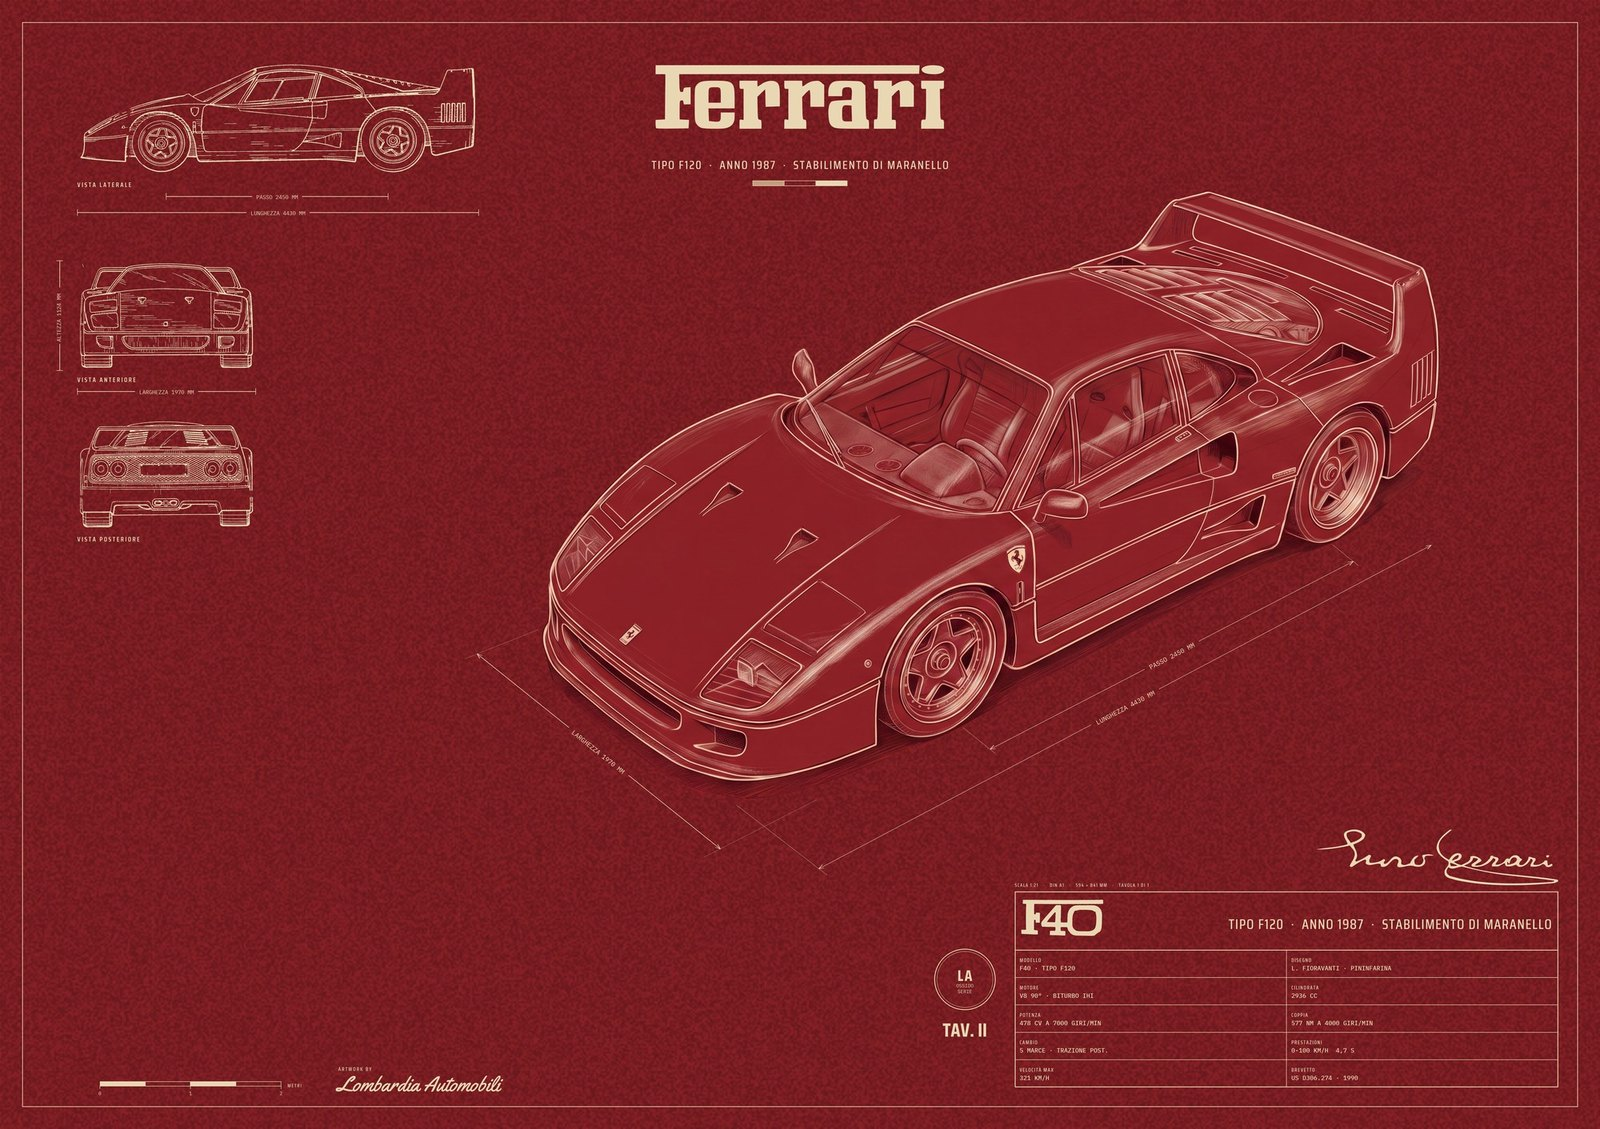
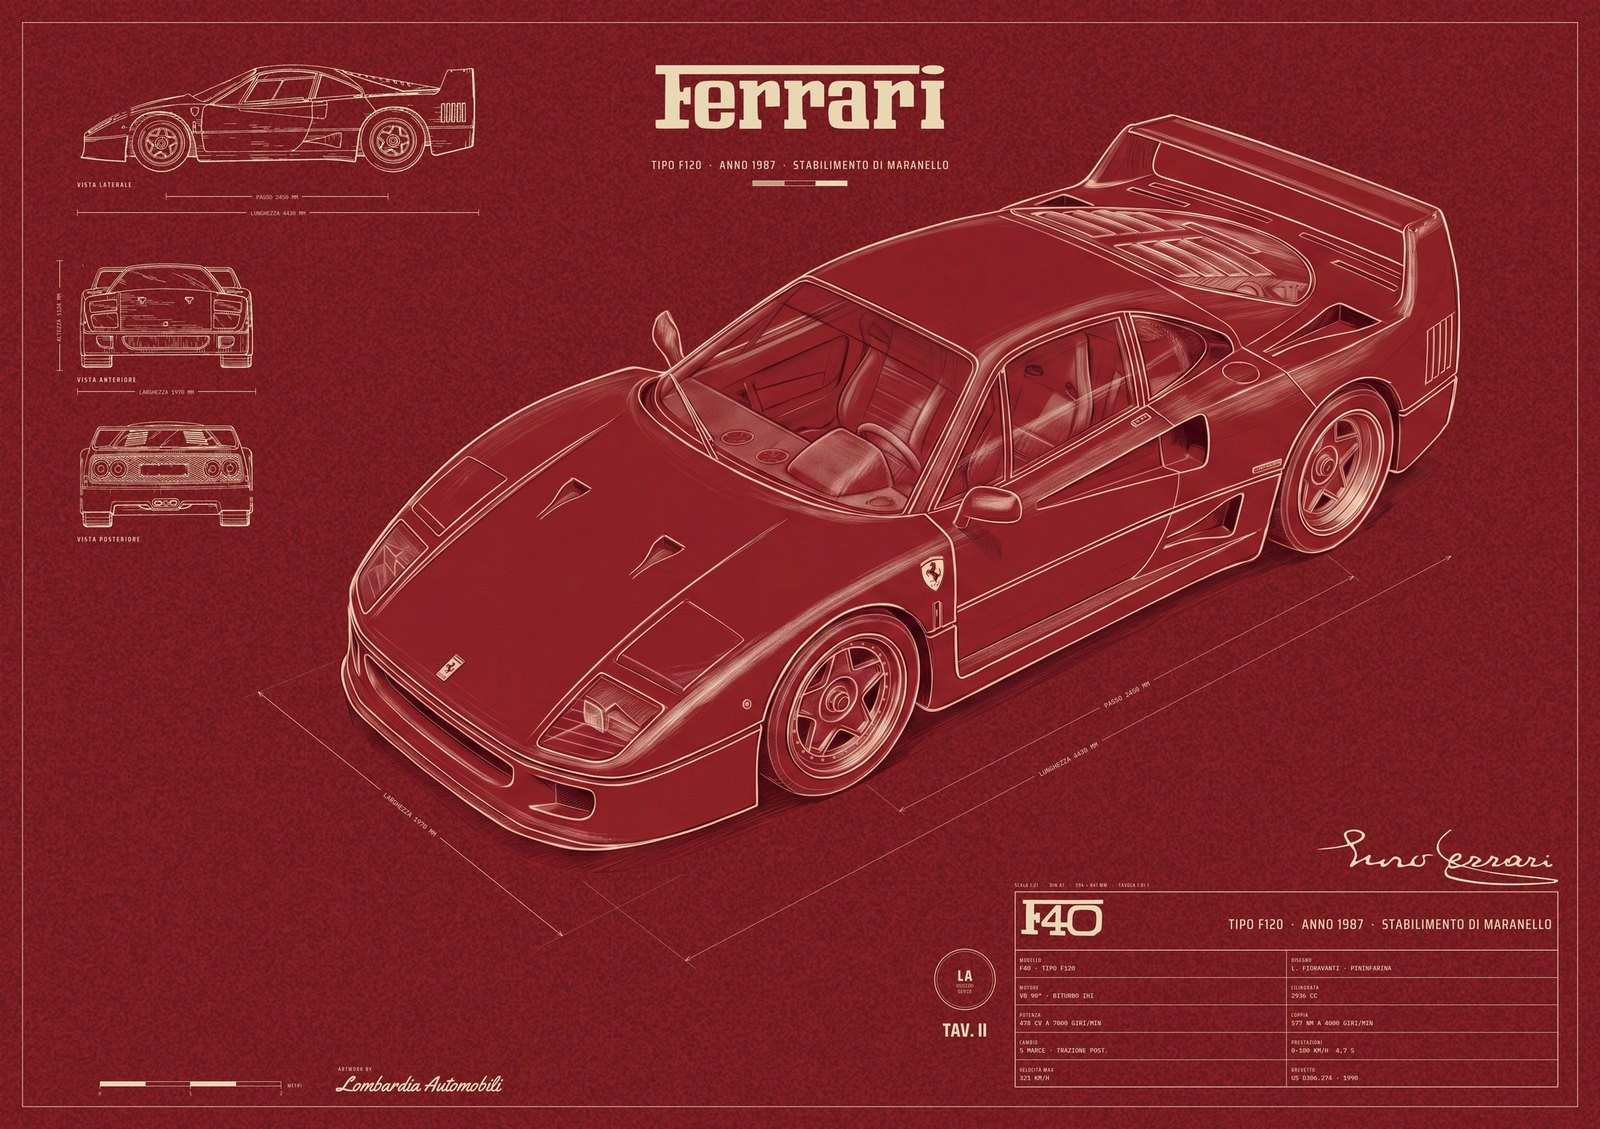
Publish the lot board

diff --git a/house/index.html b/house/index.html
@@ -20,7 +20,7 @@ a{color:#ffd28a}
 
 <h2 id="poster">The poster</h2>
 <p>Tap a sheet for the full 9933 x 7016 file. Only the car is generated; every line, figure, letter and rule is drawn. Checks under each sheet are measured, not eyeballed.</p>
-<figure><a href="img/f40-ossido-landscape-A1.jpg?v=1788460679"><img src="img/f40-ossido-landscape.jpg?v=1788460679" alt="f40-ossido-landscape"></a><figcaption>THE SHEET · Round 5 B (nano-banana-2-edit, 8 references): car regenerated alone on the ground, drawn apparatus; Ferrari wordmark centred, F40 lettering in the spec box, TAV and LA above it · <a href="img/f40-ossido-landscape-A1.jpg?v=1788460679">full A1 file</a></figcaption><table class="chk"><tr><td>size</td><td>9933 x 7016</td><td class="ok">pass</td></tr><tr><td>ratio</td><td>1.4158</td><td class="ok">pass</td></tr><tr><td>edge white % (t/b/l/r)</td><td>0.0 / 0.0 / 0.0 / 0.0</td><td class="ok">pass</td></tr><tr><td>edge mean rgb (top)</td><td>[120, 28, 33]</td><td class="ok">pass</td></tr><tr><td>car box vs source, % of sheet</td><td>x0 0.0 · y0 0.19 · x1 -0.02 · y1 -0.19 · IoU 0.9928</td><td class="ok">pass</td></tr><tr><td>ground sampled from render</td><td>[139, 33, 39]</td><td class="ok">pass</td></tr><tr><td>library used</td><td>{&quot;wordmark&quot;: &quot;ferrari-wordmark-mask-4k.png&quot;, &quot;model_asset&quot;: &quot;f40-model-mask.png&quot;, &quot;model_h&quot;: &quot;253&quot;, &quot;_library_entry&quot;: &quot;Ferrari&quot;}</td><td class="ok">pass</td></tr></table></figure>
+<figure><a href="img/f40-ossido-landscape-A1.jpg?v=1788460820"><img src="img/f40-ossido-landscape.jpg?v=1788460820" alt="f40-ossido-landscape"></a><figcaption>THE SHEET · Round 5 B (nano-banana-2-edit, 8 references): car regenerated alone on the ground, drawn apparatus; Ferrari wordmark centred, F40 lettering in the spec box, TAV and LA above it · <a href="img/f40-ossido-landscape-A1.jpg?v=1788460820">full A1 file</a></figcaption><table class="chk"><tr><td>size</td><td>9933 x 7016</td><td class="ok">pass</td></tr><tr><td>ratio</td><td>1.4158</td><td class="ok">pass</td></tr><tr><td>edge white % (t/b/l/r)</td><td>0.0 / 0.0 / 0.0 / 0.0</td><td class="ok">pass</td></tr><tr><td>edge mean rgb (top)</td><td>[120, 28, 33]</td><td class="ok">pass</td></tr><tr><td>car box vs source, % of sheet</td><td>x0 0.0 · y0 0.23 · x1 0.0 · y1 -0.23 · IoU 0.9933</td><td class="ok">pass</td></tr><tr><td>ground sampled from render</td><td>[139, 33, 39]</td><td class="ok">pass</td></tr><tr><td>library used</td><td>{&quot;wordmark&quot;: &quot;ferrari-wordmark-mask-4k.png&quot;, &quot;model_asset&quot;: &quot;f40-model-mask.png&quot;, &quot;model_h&quot;: &quot;253&quot;, &quot;_library_entry&quot;: &quot;Ferrari&quot;}</td><td class="ok">pass</td></tr></table></figure>
 
 <h2 id="cands">Car candidates</h2>
 <p>Car-only generations from the prompt extracted out of gen 362. IoU is the car box against gen 362's own car box; stray ink is anything the model drew outside the car.</p>
